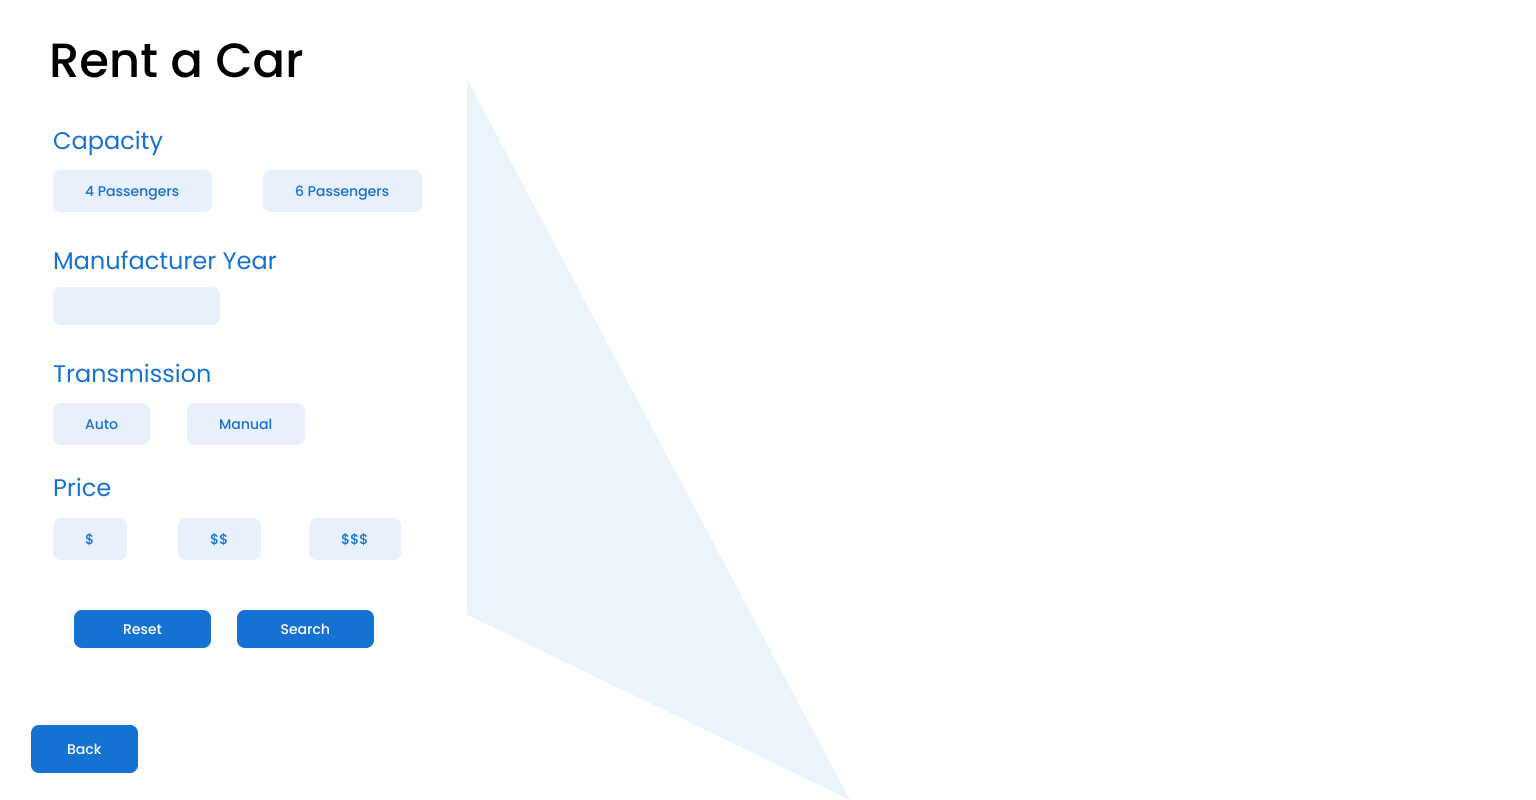
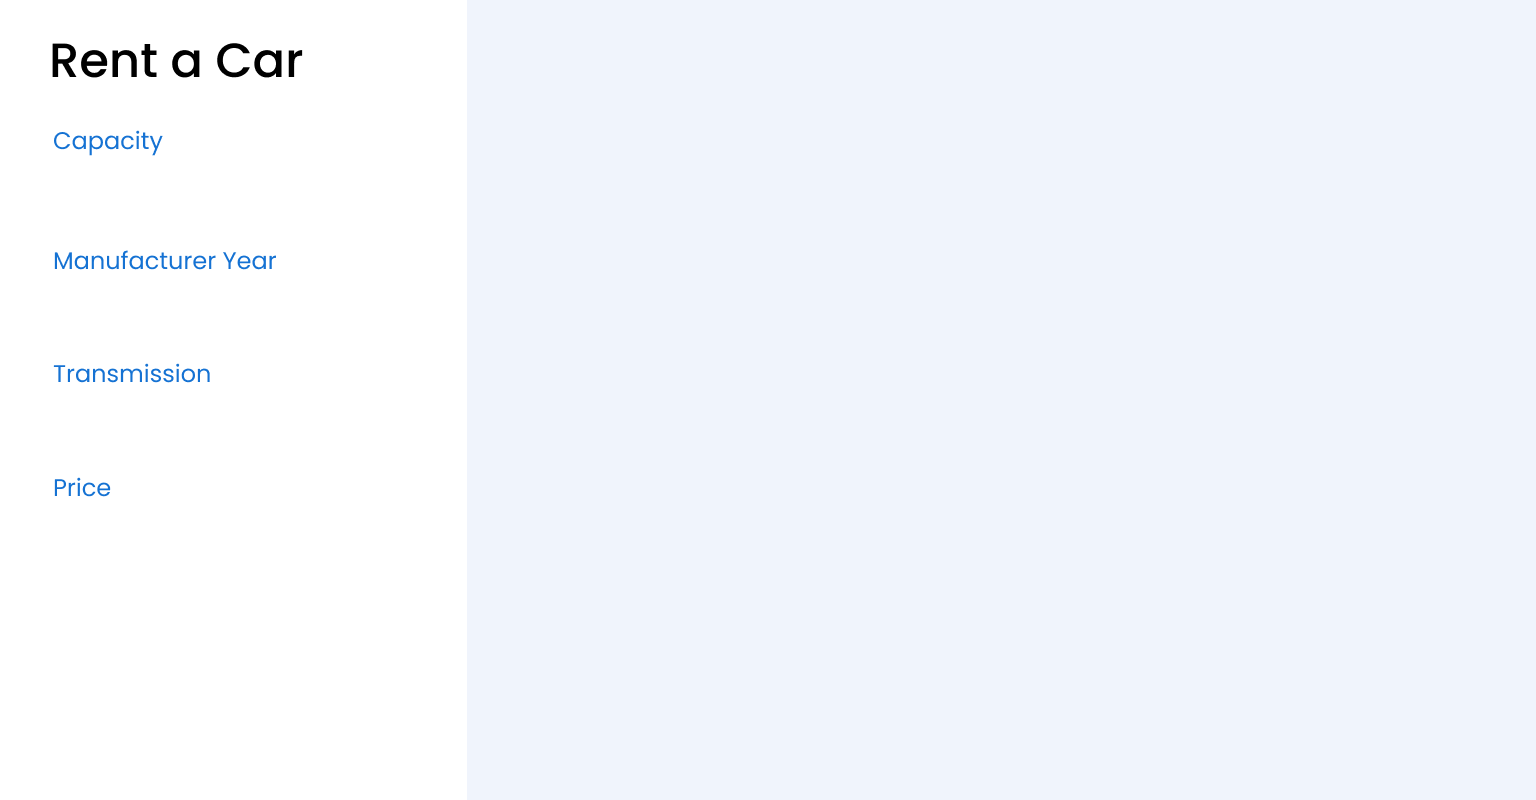
Finished rental page completely

diff --git a/ALLProject/main/AppCode.py b/ALLProject/main/AppCode.py
@@ -117,8 +117,8 @@ class App:
         self.password = ctk.StringVar()
         passwordEntry = ctk.CTkEntry(self.master,
             textvariable=self.password,
-            width=402,
-            height=54,
+            width=402/1536*self.width,
+            height=54/864*self.height,
             bg_color="white",
             fg_color="#D9D9D9",
             border_color="#D9D9D9",
@@ -126,7 +126,7 @@ class App:
             font=("Poppins Light",24),
             show="*"
         )
-        passwordEntry.place(x=186,y=484,anchor="nw")
+        passwordEntry.place(x=186/1536*self.width,y=484/864*self.height,anchor="nw")
 
         # login/register frame
         loginButton = ctk.CTkButton(
@@ -137,11 +137,11 @@ class App:
             fg_color="#1572D3",
             text_color="white",
             border_color="#1572D3",
-            width=187,
-            height=57,
+            width=187/1536*self.width,
+            height=57/864*self.height,
             font=("Poppins Medium",18)
         )
-        loginButton.place(x=185,y=592-9,anchor="nw")
+        loginButton.place(x=185/1536*self.width,y=583/864*self.height,anchor="nw")
 
         registerButton = ctk.CTkButton(
             self.master,
@@ -151,11 +151,11 @@ class App:
             fg_color="#1572D3",
             text_color="white",
             border_color="#1572D3",
-            width=187,
-            height=57,
+            width=187/1536*self.width,
+            height=57/864*self.height,
             font=("Poppins Medium",18)
         )
-        registerButton.place(x=401,y=592-9,anchor="nw")
+        registerButton.place(x=401/1536*self.width,y=583/864*self.height,anchor="nw")
 
 
     def register(self):
@@ -321,46 +321,46 @@ class App:
         for i in self.master.winfo_children():
             i.destroy()
 
-        homepage_ui = ctk.CTkImage(light_image=img.open("assets/home page ui.png"), size=(1536, 800))
+        homepage_ui = ctk.CTkImage(light_image=img.open("assets/home page ui.png"), size=(self.width, self.height-64))
         homepage_ui_label = ctk.CTkLabel(self.master,image=homepage_ui,text="")
         homepage_ui_label.place(relx=0,rely=0,anchor="nw")
 
         rent_button = ctk.CTkButton(
             master=self.master,
             text="Go",
-            width=158,
-            height=40,
+            width=158/1536*self.width,
+            height=40/864*self.height,
             font=("Poppins Medium",14),
             bg_color="#FFFFFF",
             fg_color="#1572D3",
             text_color="white",
             command=self.rental_page
         )
-        rent_button.place(x=1210  ,y=204,anchor="nw")
+        rent_button.place(x=1210/1536*self.width  ,y=204/864*self.height,anchor="nw")
 
         account_button = ctk.CTkButton(
             master=self.master,
             text="Go",
-            width=158,
-            height=42,
+            width=158/1536*self.width,
+            height=42/864*self.height,
             font=("Poppins Medium", 14),
             bg_color="#FFFFFF",
             fg_color="#1572D3",
             text_color="white"
         )
-        account_button.place(x=1210, y=441, anchor="nw")
+        account_button.place(x=1210/1536*self.width, y=441/864*self.height, anchor="nw")
 
         book_button = ctk.CTkButton(
             master=self.master,
             text="Go",
-            width=158,
-            height=42,
+            width=158/1536*self.width,
+            height=42/864*self.height,
             font=("Poppins Medium", 14),
             bg_color="#FFFFFF",
             fg_color="#1572D3",
             text_color="white"
         )
-        book_button.place(x=1210, y=673, anchor="nw")
+        book_button.place(x=1210/1536*self.width, y=673/864*self.height, anchor="nw")
 
     def check_verification(self):
         if self.verification_code.get()==self.random_code:
@@ -392,12 +392,12 @@ class App:
             fg_color="#f0f4fc",
             text_color="#1572D3",
             border_color="#f0f4fc",
-            width=159,
-            height=42,
+            width=159/1536*self.width,
+            height=42/864*self.height,
             font=("Poppins Medium", 18),
             command=lambda : self.set_search_option("5 Passengers")
         )
-        five_passenger.place(x=53, y=170, anchor="nw")
+        five_passenger.place(x=53/1536*self.width, y=170/864*self.height, anchor="nw")
 
         seven_passenger = ctk.CTkButton(
             self.master,
@@ -406,12 +406,12 @@ class App:
             fg_color="#f0f4fc",
             text_color="#1572D3",
             border_color="#f0f4fc",
-            width=159,
-            height=42,
+            width=159/1536*self.width,
+            height=42/864*self.height,
             font=("Poppins Medium", 18),
             command=lambda : self.set_search_option("7 Passengers")
         )
-        seven_passenger.place(x=263, y=170, anchor="nw")
+        seven_passenger.place(x=263/1536*self.width, y=170/864*self.height, anchor="nw")
 
         self.manu_year.trace("w", lambda name, index, mode, sv=self.manu_year: self.set_search_option("Manufacturer Year"))
         manufacturer_year_entry = ctk.CTkEntry(
@@ -420,12 +420,12 @@ class App:
             fg_color="#f0f4fc",
             text_color="#1572D3",
             border_color="#f0f4fc",
-            width=167,
-            height=38,
+            width=167/1536*self.width,
+            height=38/864*self.height,
             font=("Poppins Medium", 20),
             textvariable=self.manu_year
         )
-        manufacturer_year_entry.place(x=53,y=287)
+        manufacturer_year_entry.place(x=53/1536*self.width,y=287/864*self.height)
 
         auto_button = ctk.CTkButton(
             self.master,
@@ -434,12 +434,12 @@ class App:
             fg_color="#f0f4fc",
             text_color="#1572D3",
             border_color="#f0f4fc",
-            width=97,
-            height=42,
+            width=97/1536*self.width,
+            height=42/864*self.height,
             font=("Poppins Medium", 18),
             command=lambda : self.set_search_option("Auto")
         )
-        auto_button.place(x=53, y=403, anchor="nw")
+        auto_button.place(x=53/1536*self.width, y=403/864*self.height, anchor="nw")
 
         manual_button = ctk.CTkButton(
             self.master,
@@ -448,12 +448,12 @@ class App:
             fg_color="#f0f4fc",
             text_color="#1572D3",
             border_color="#f0f4fc",
-            width=118,
-            height=42,
+            width=118/1536*self.width,
+            height=42/864*self.height,
             font=("Poppins Medium", 18),
             command=lambda : self.set_search_option("Manual")
         )
-        manual_button.place(x=187, y=403, anchor="nw")
+        manual_button.place(x=187/1536*self.width, y=403/864*self.height, anchor="nw")
 
         price_1 = ctk.CTkButton(
             self.master,
@@ -462,12 +462,12 @@ class App:
             fg_color="#f0f4fc",
             text_color="#1572D3",
             border_color="#f0f4fc",
-            width=74,
-            height=42,
+            width=74/1536*self.width,
+            height=42/864*self.height,
             font=("Poppins Medium", 18),
             command=lambda : self.set_search_option("Price 1")
         )
-        price_1.place(x=53, y=518, anchor="nw")
+        price_1.place(x=53/1536*self.width, y=518/864*self.height, anchor="nw")
 
         price_2 = ctk.CTkButton(
             self.master,
@@ -476,12 +476,12 @@ class App:
             fg_color="#f0f4fc",
             text_color="#1572D3",
             border_color="#f0f4fc",
-            width=83,
-            height=42,
+            width=83/1536*self.width,
+            height=42/864*self.height,
             font=("Poppins Medium", 18),
             command=lambda : self.set_search_option("Price 2")
         )
-        price_2.place(x=178, y=518, anchor="nw")
+        price_2.place(x=178/1536*self.width, y=518/864*self.height, anchor="nw")
 
         price_3 = ctk.CTkButton(
             self.master,
@@ -490,12 +490,12 @@ class App:
             fg_color="#f0f4fc",
             text_color="#1572D3",
             border_color="#f0f4fc",
-            width=92,
-            height=42,
+            width=92/1536*self.width,
+            height=42/864*self.height,
             font=("Poppins Medium", 18),
             command=lambda : self.set_search_option("Price 3")
         )
-        price_3.place(x=309, y=518, anchor="nw")
+        price_3.place(x=309/1536*self.width, y=518/864*self.height, anchor="nw")
 
         reset_button = ctk.CTkButton(
             self.master,
@@ -504,25 +504,12 @@ class App:
             fg_color="#1572D3",
             text_color="white",
             border_color="#1572D3",
-            width=137,
-            height=38,
+            width=137/1536*self.width,
+            height=38/864*self.height,
             font=("Poppins Medium", 18),
             command=lambda : self.set_search_option("Reset")
         )
-        reset_button.place(x=74, y=610, anchor="nw")
-
-        search_button = ctk.CTkButton(
-            self.master,
-            text="Search",
-            bg_color="white",
-            fg_color="#1572D3",
-            text_color="white",
-            border_color="#1572D3",
-            width=137,
-            height=38,
-            font=("Poppins Medium", 18)
-        )
-        search_button.place(x=237, y=610, anchor="nw")
+        reset_button.place(x=151/1536*self.width, y=600/864*self.height, anchor="nw")
 
         back_button = ctk.CTkButton(
             self.master,
@@ -531,21 +518,21 @@ class App:
             fg_color="#1572D3",
             text_color="white",
             border_color="#1572D3",
-            width=107,
-            height=48,
+            width=107/1536*self.width,
+            height=48/864*self.height,
             font=("Poppins Medium", 18),
             command=self.home_page
         )
-        back_button.place(x=31, y=725, anchor="nw")
+        back_button.place(x=31/1536*self.width, y=725/864*self.height, anchor="nw")
 
         car_frame = ctk.CTkScrollableFrame(
             master=self.master,
-            width=1056-30,
-            height=760,
+            width=1026/1536*self.width,
+            height=760/864*self.height,
             bg_color="white",
             fg_color="white"
         )
-        car_frame.place(x=480,y=10,anchor="nw")
+        car_frame.place(x=480/1536*self.width,y=10/864*self.height,anchor="nw")
         self.cursor.execute('SELECT * FROM CARS')
         results = self.cursor.fetchall()
         i = 0
